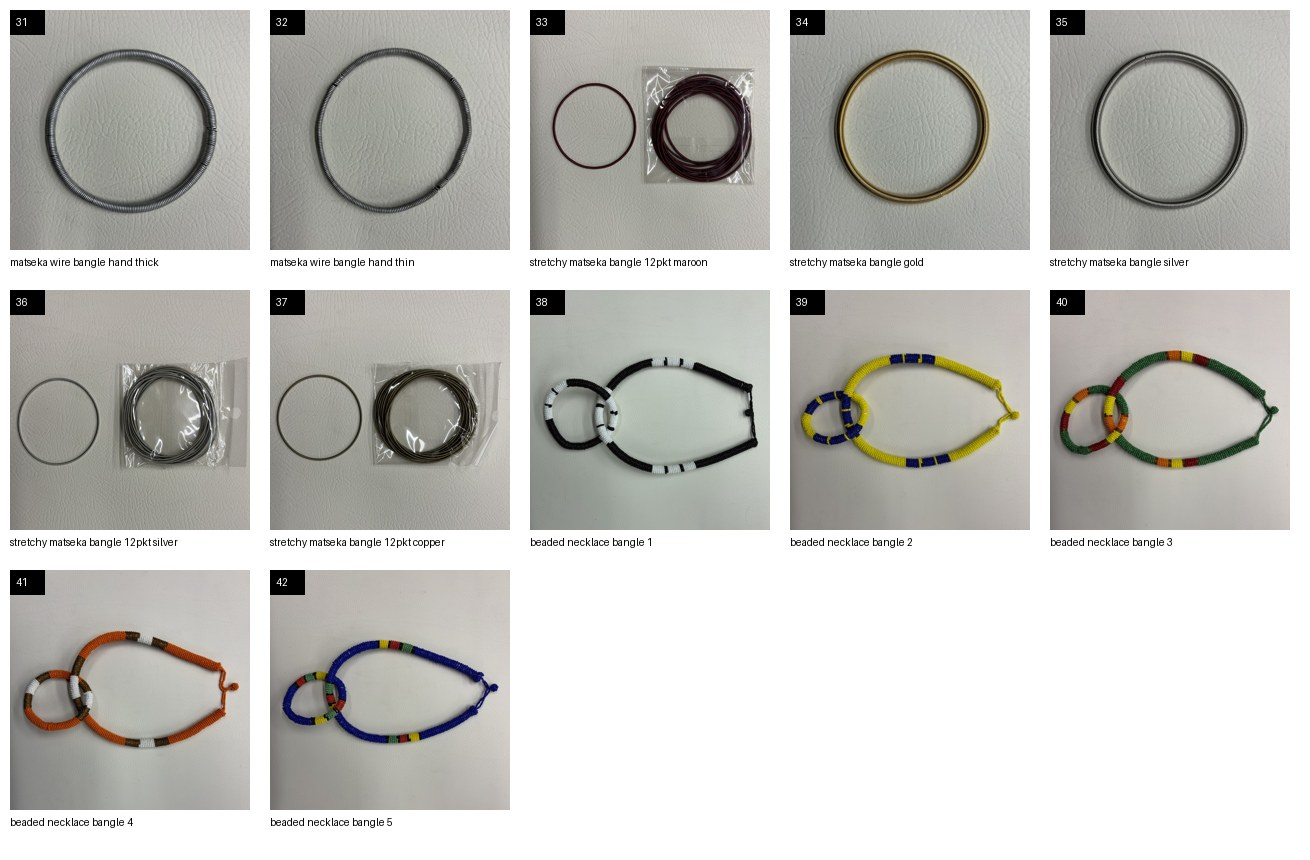
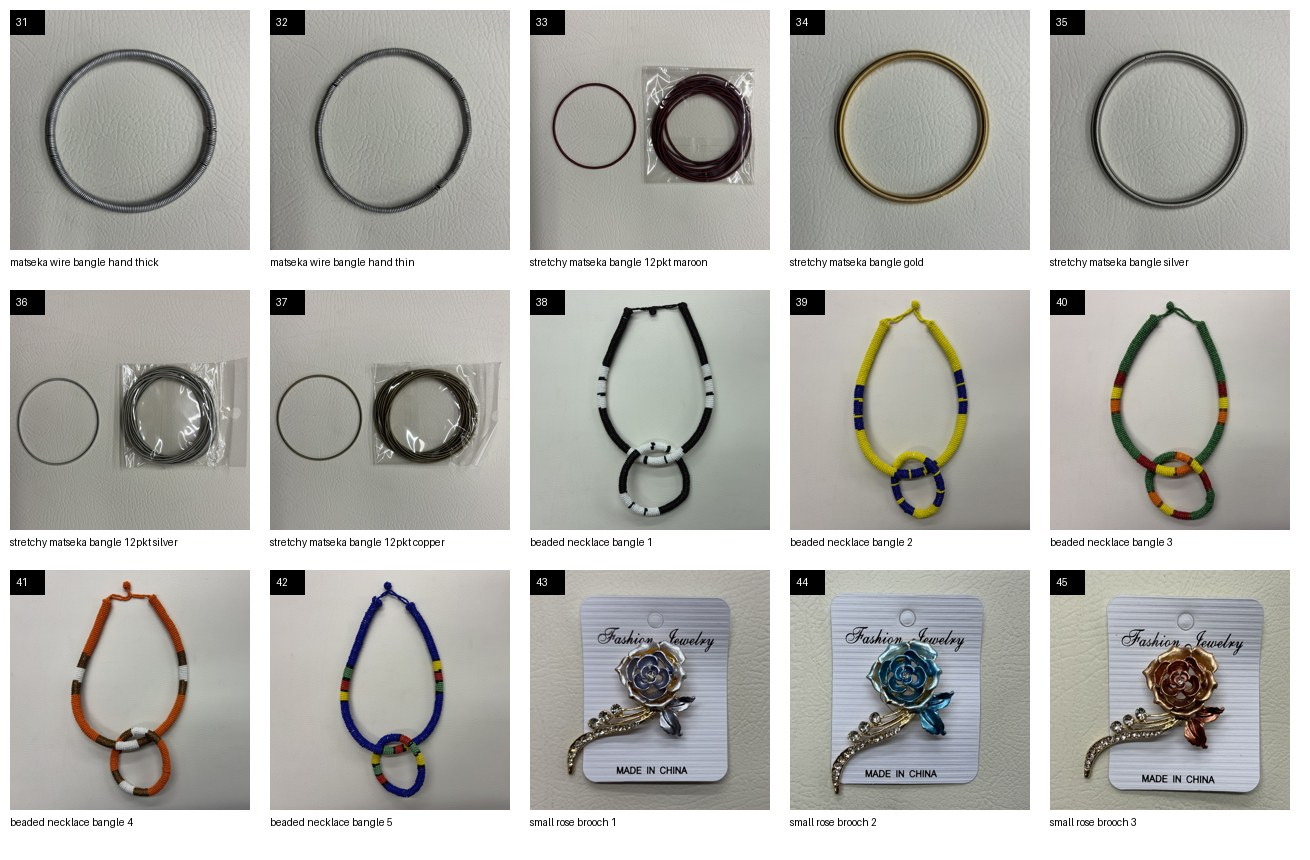
Traditional items: rose and flowers brooch crops, necklace + bangle turned upright
Claude-Session: https://claude.ai/code/session_01FrAdmZhbnvV2Pi8Ea2YxmY

diff --git a/marketing/website/new-products/crop-traditional.py b/marketing/website/new-products/crop-traditional.py
@@ -18,6 +18,10 @@ CROPS = {
  'stretchy_matseka_bangle_12pkt_maroon': (.5,.42,.82), 'stretchy_matseka_bangle_gold': (.56,.455,.72), 'stretchy_matseka_bangle_silver': (.565,.45,.72),
  'beaded_necklace_bangle_1': (.515,.43,.92), 'beaded_necklace_bangle_2': (.525,.445,.94), 'beaded_necklace_bangle_3': (.505,.37,.96),
  'beaded_necklace_bangle_4': (.525,.375,.94), 'beaded_necklace_bangle_5': (.515,.425,.96),
+ 'small_rose_brooch_1': (.545,.43,.72), 'small_rose_brooch_2': (.58,.445,.74), 'small_rose_brooch_3': (.57,.41,.74),
+ 'small_rose_brooch_4': (.55,.45,.74), 'small_rose_brooch_5': (.55,.455,.74), 'small_rose_brooch_6': (.55,.435,.68),
+ 'small_flowers_brooch_1': (.545,.445,.72), 'small_flowers_brooch_2': (.535,.46,.74), 'small_flowers_brooch_3': (.575,.475,.72),
+ 'small_flowers_brooch_4': (.57,.465,.72), 'small_flowers_brooch_5': (.56,.475,.7), 'small_flowers_brooch_6': (.575,.475,.72),
  'stretchy_matseka_bangle_12pkt_silver': (.53,.38,.82), 'stretchy_matseka_bangle_12pkt_copper': (.56,.41,.82),
 }
 # dark table edges in the photo: (side, width fraction) replaced by the plain background next to them
